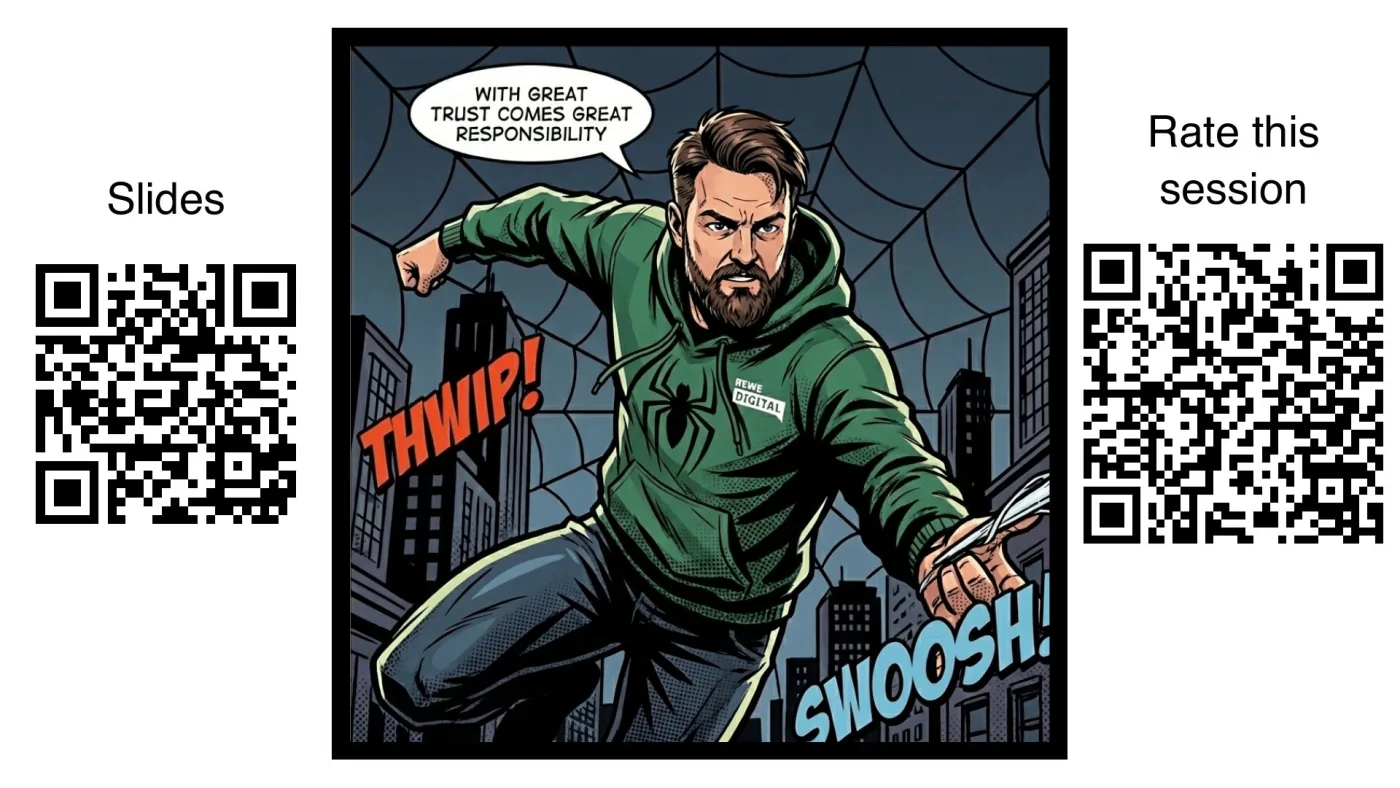
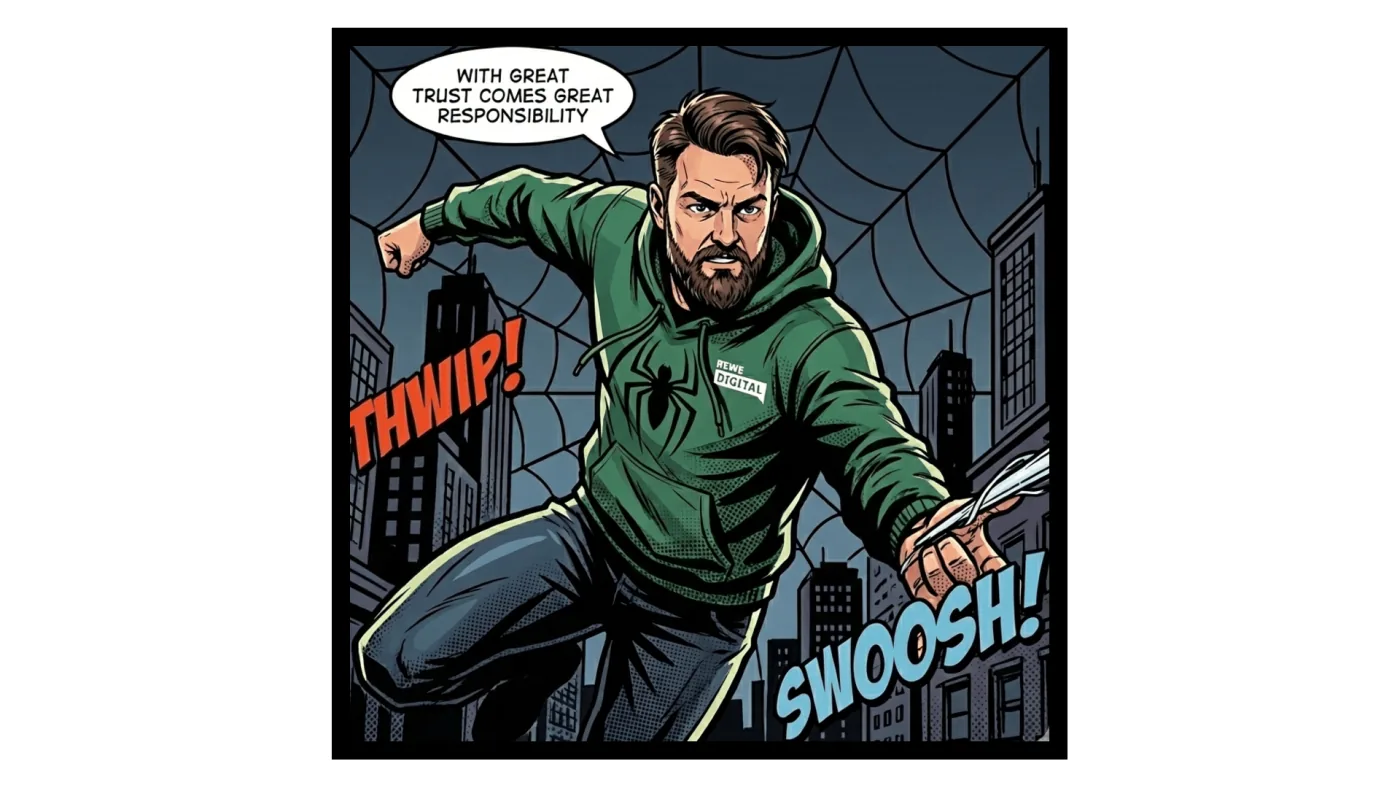
Remove QR codes from last slide of ATD 2026 transcript

diff --git a/talks/trust-responsibility/2026-11-17-atd2026/transcript.md b/talks/trust-responsibility/2026-11-17-atd2026/transcript.md
@@ -373,7 +373,7 @@ Here are some books that helped me finally find that damn spider. Daniel Pink, *
 
 So: with great trust comes great responsibility. Please try it. Thank you!
 
-![Thank you – QR codes for the slides and the session rating](slides/31-thank-you.webp)
+![Comic illustration: a bearded hero in a green spider hoodie swinging through the city, saying "With great trust comes great responsibility"](slides/31-thank-you.webp)
 
 ## Q&A
 
